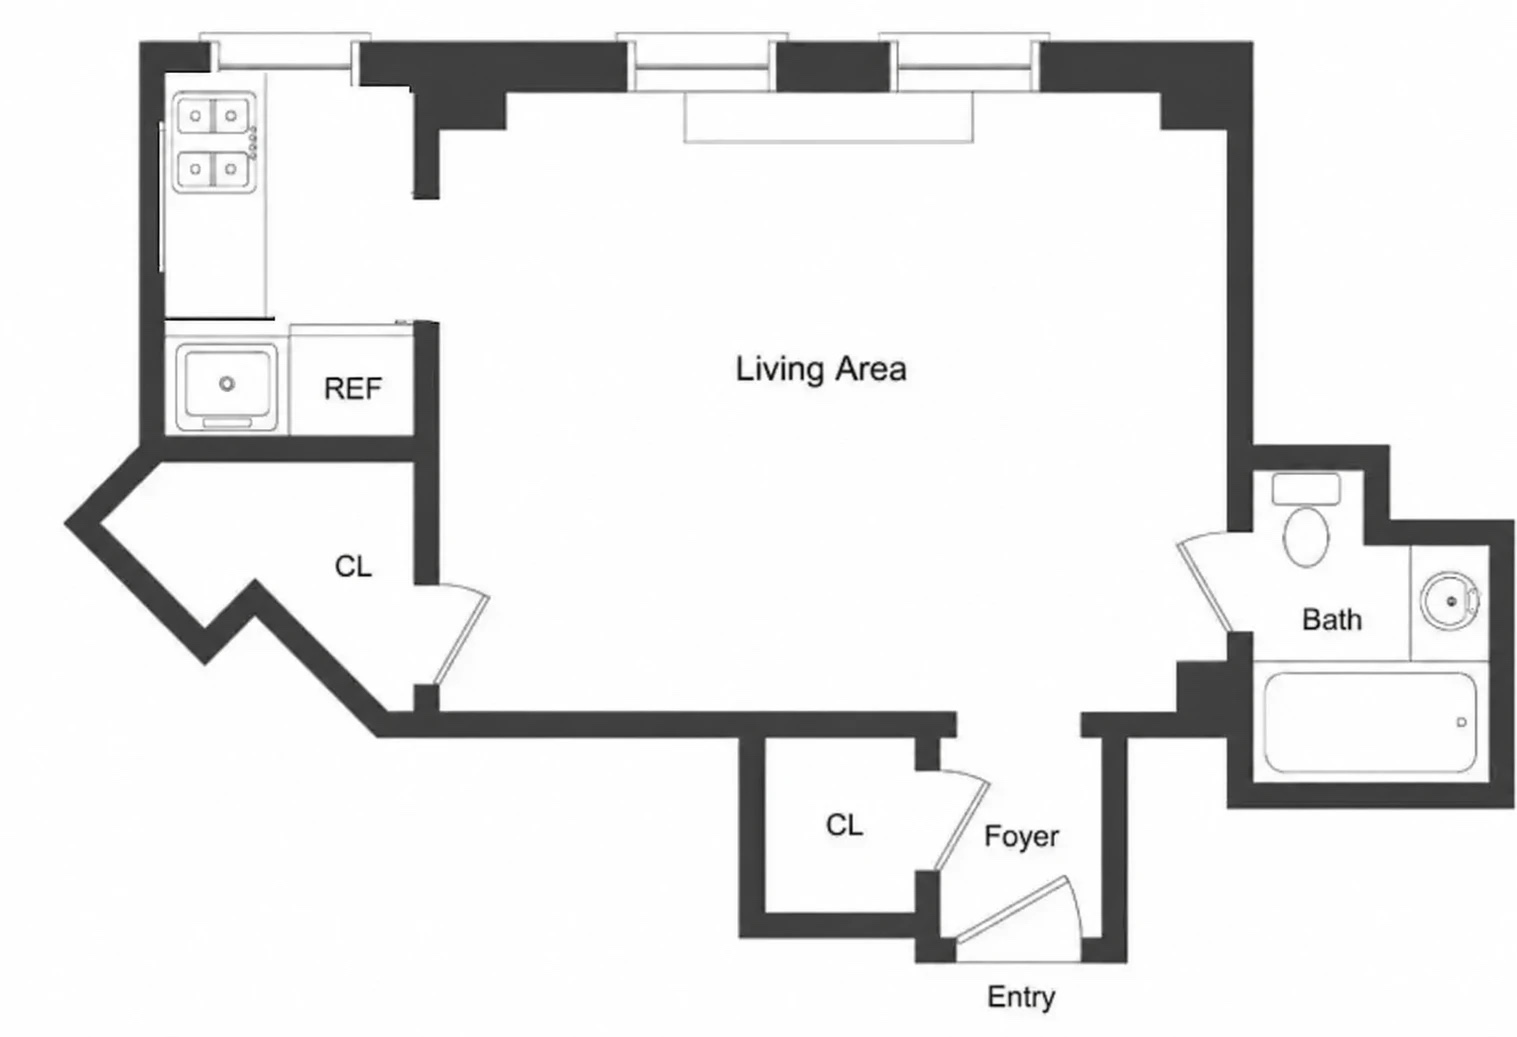
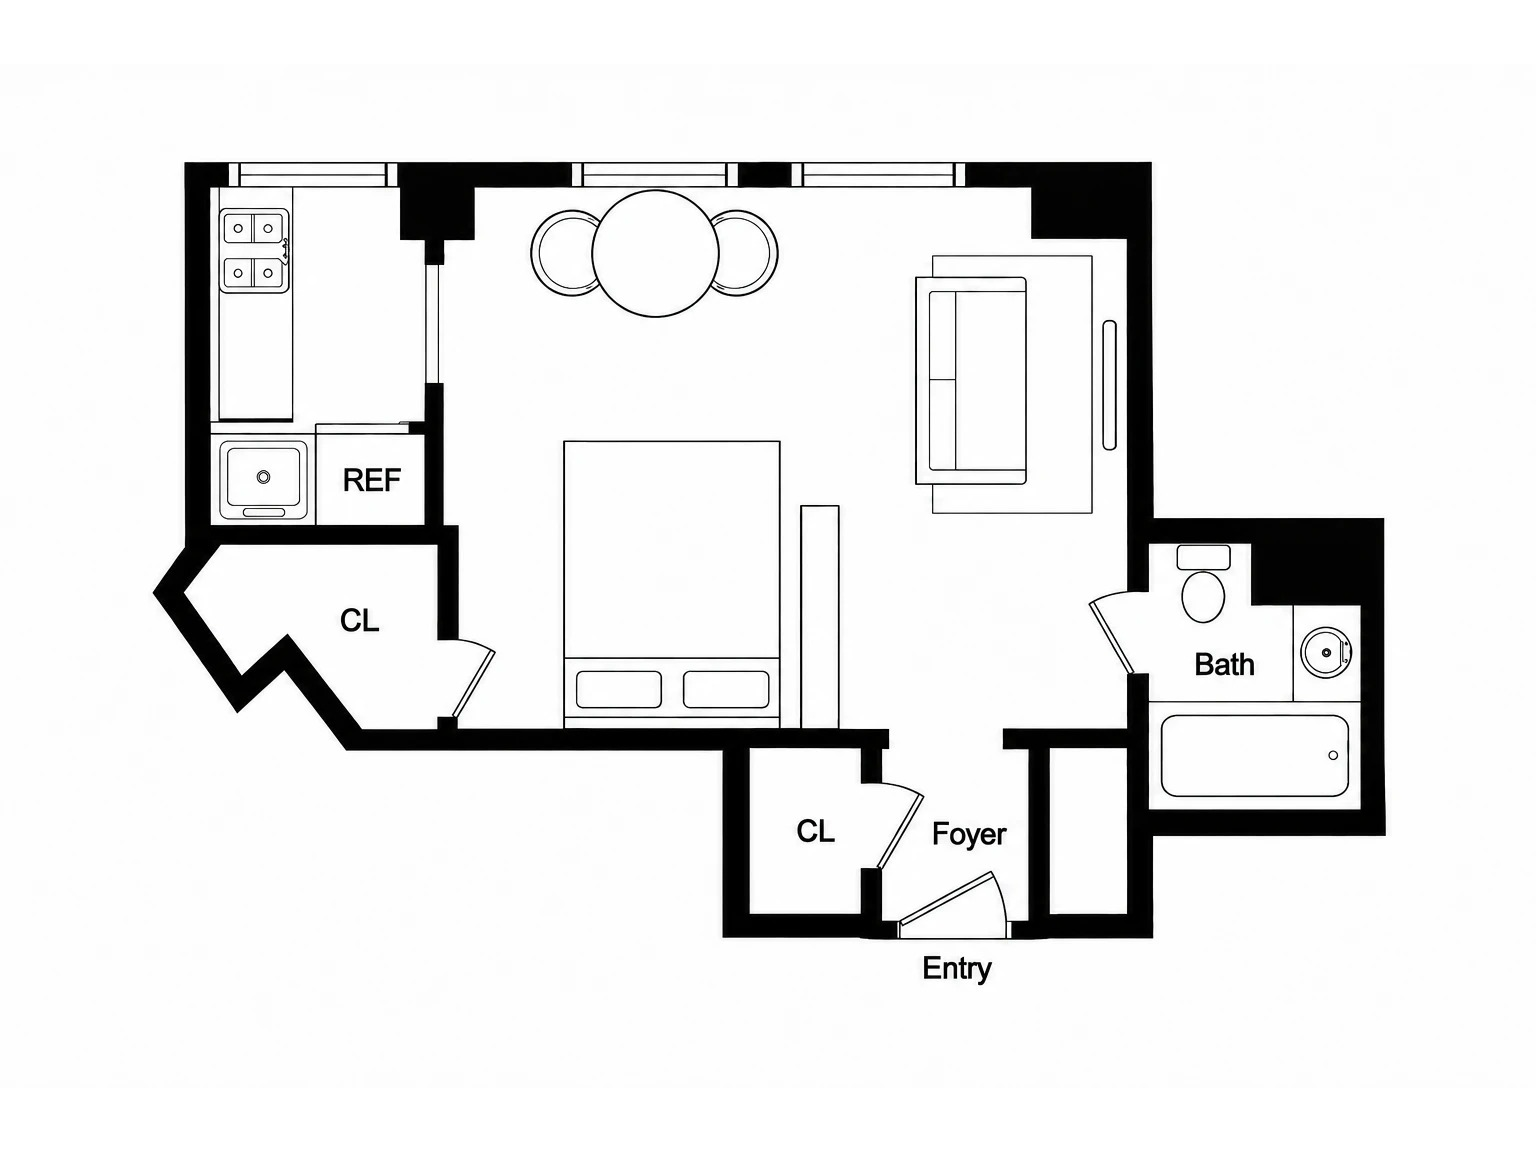
Shenandoah 9E: new floor plan
Replaces the old plan with the labelled one Jack sent (CL, Bath, Foyer,
Entry, REF). Padded 3:2 out to the lightbox's 4:3 on white so it shows on
white rather than in grey blurred bands; no stamped logo on this file, so
nothing painted out. Cache-buster bumped to v=3 so browsers holding the
old plan refetch.

Changed region(s): [[0.031, 0.0309, 1.0, 0.9875], [0.3718, 0.2469, 0.4957, 0.2777]]

diff --git a/sheridan-9e.html b/sheridan-9e.html
@@ -146,7 +146,7 @@
       <div class="gimg" style="background-image:url('10-sheridan-square-9E-git/sheridan-9E-2.jpg')" onclick="openLightbox(1)"></div>
       <div class="gimg" style="background-image:url('10-sheridan-square-9E-git/sheridan-9E-3.jpg')" onclick="openLightbox(2)"></div>
       <div class="gimg" style="background-image:url('10-sheridan-square-9E-git/sheridan-9E-4.jpg')" onclick="openLightbox(3)"></div>
-      <div class="gimg" style="background-image:url('10-sheridan-square-9E-git/sheridan-9E-floorplan.jpg?v=2');background-size:contain;background-repeat:no-repeat;background-color:#fff" onclick="openLightbox(4)"></div>
+      <div class="gimg" style="background-image:url('10-sheridan-square-9E-git/sheridan-9E-floorplan.jpg?v=3');background-size:contain;background-repeat:no-repeat;background-color:#fff" onclick="openLightbox(4)"></div>
   </section>
 
   <div class="gallery-cta"><button onclick="openLightbox(0)">View All 5 Photos</button></div>
@@ -184,7 +184,7 @@
 
 <script src="https://unpkg.com/leaflet@1.9.4/dist/leaflet.js" integrity="sha384-cxOPjt7s7Iz04uaHJceBmS+qpjv2JkIHNVcuOrM+YHwZOmJGBXI00mdUXEq65HTH" crossorigin="anonymous" referrerpolicy="no-referrer"></script>
 <script>
-  const photos = ['10-sheridan-square-9E-git/sheridan-9E-1.jpg','10-sheridan-square-9E-git/sheridan-9E-2.jpg','10-sheridan-square-9E-git/sheridan-9E-3.jpg','10-sheridan-square-9E-git/sheridan-9E-4.jpg','10-sheridan-square-9E-git/sheridan-9E-floorplan.jpg?v=2'];
+  const photos = ['10-sheridan-square-9E-git/sheridan-9E-1.jpg','10-sheridan-square-9E-git/sheridan-9E-2.jpg','10-sheridan-square-9E-git/sheridan-9E-3.jpg','10-sheridan-square-9E-git/sheridan-9E-4.jpg','10-sheridan-square-9E-git/sheridan-9E-floorplan.jpg?v=3'];
   let currentPhoto = 0;
   function openLightbox(i) {
     currentPhoto = i;
